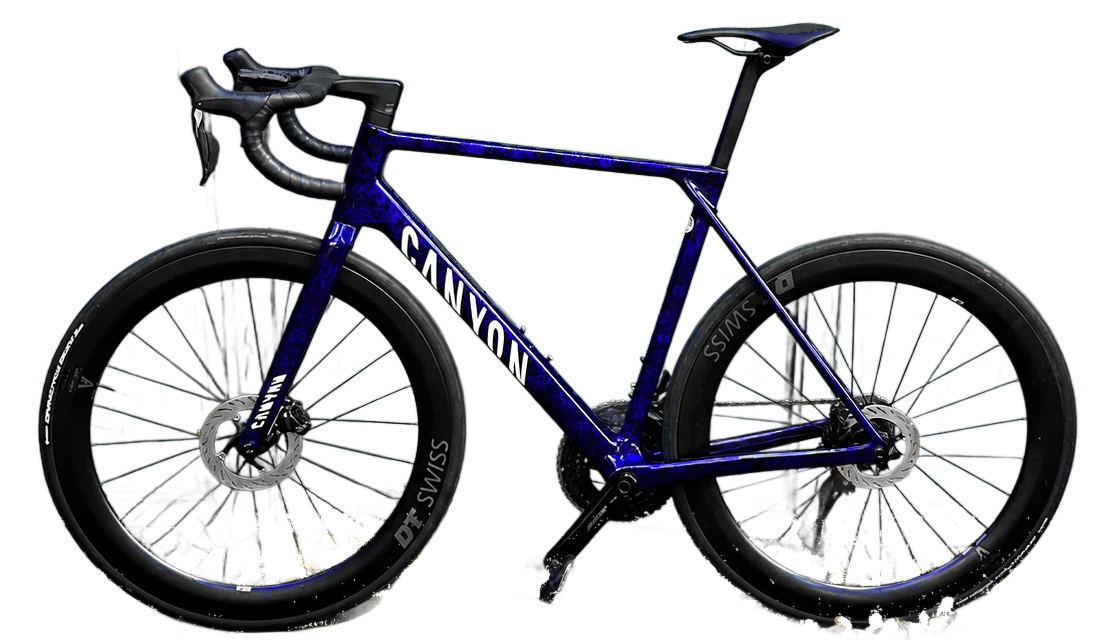
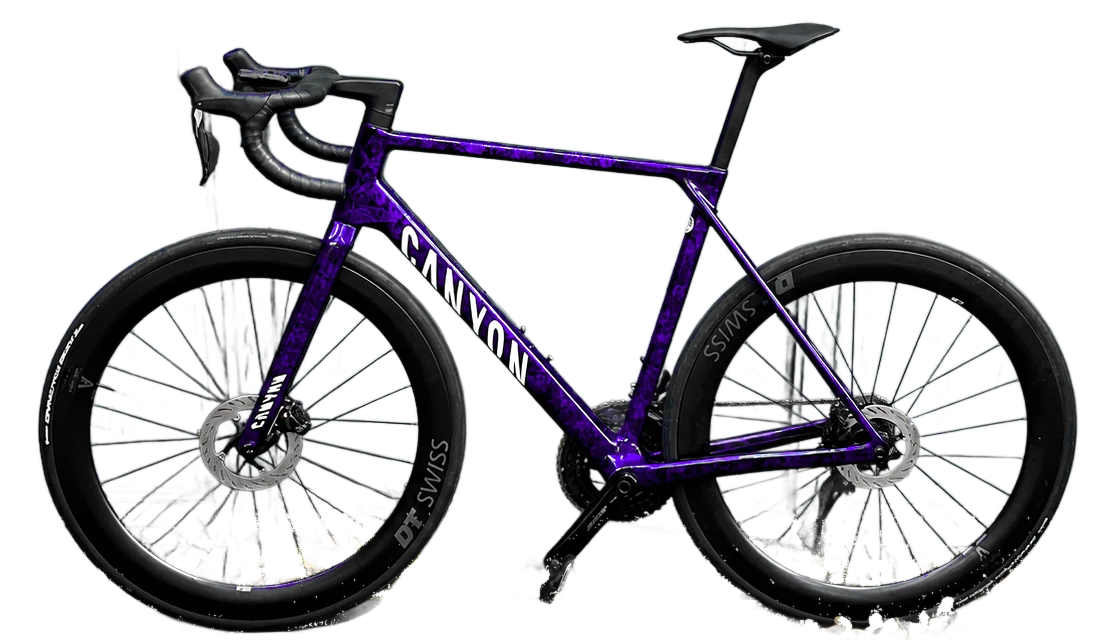
Rad-Foto: Rahmen kräftiger lila, Sattel und Reifen neutral
Claude-Session: https://claude.ai/code/session_01C19QUjpRuCq83WuP1KGsbU

diff --git a/index.html b/index.html
@@ -239,7 +239,7 @@ section{display:flex;flex-direction:column;gap:16px}
 </style>
 </head>
 <body>
-<div id="bikeBg" aria-hidden="true"><div class="bk" id="bk"><div class="bk-glow"></div><img src="/bike.webp" alt="" width="1120" height="640" decoding="async"></div></div>
+<div id="bikeBg" aria-hidden="true"><div class="bk" id="bk"><div class="bk-glow"></div><img src="/bike.webp?v=2" alt="" width="1120" height="640" decoding="async"></div></div>
 <div class="wrap">
   <div class="topbar">
     <div class="brand">
